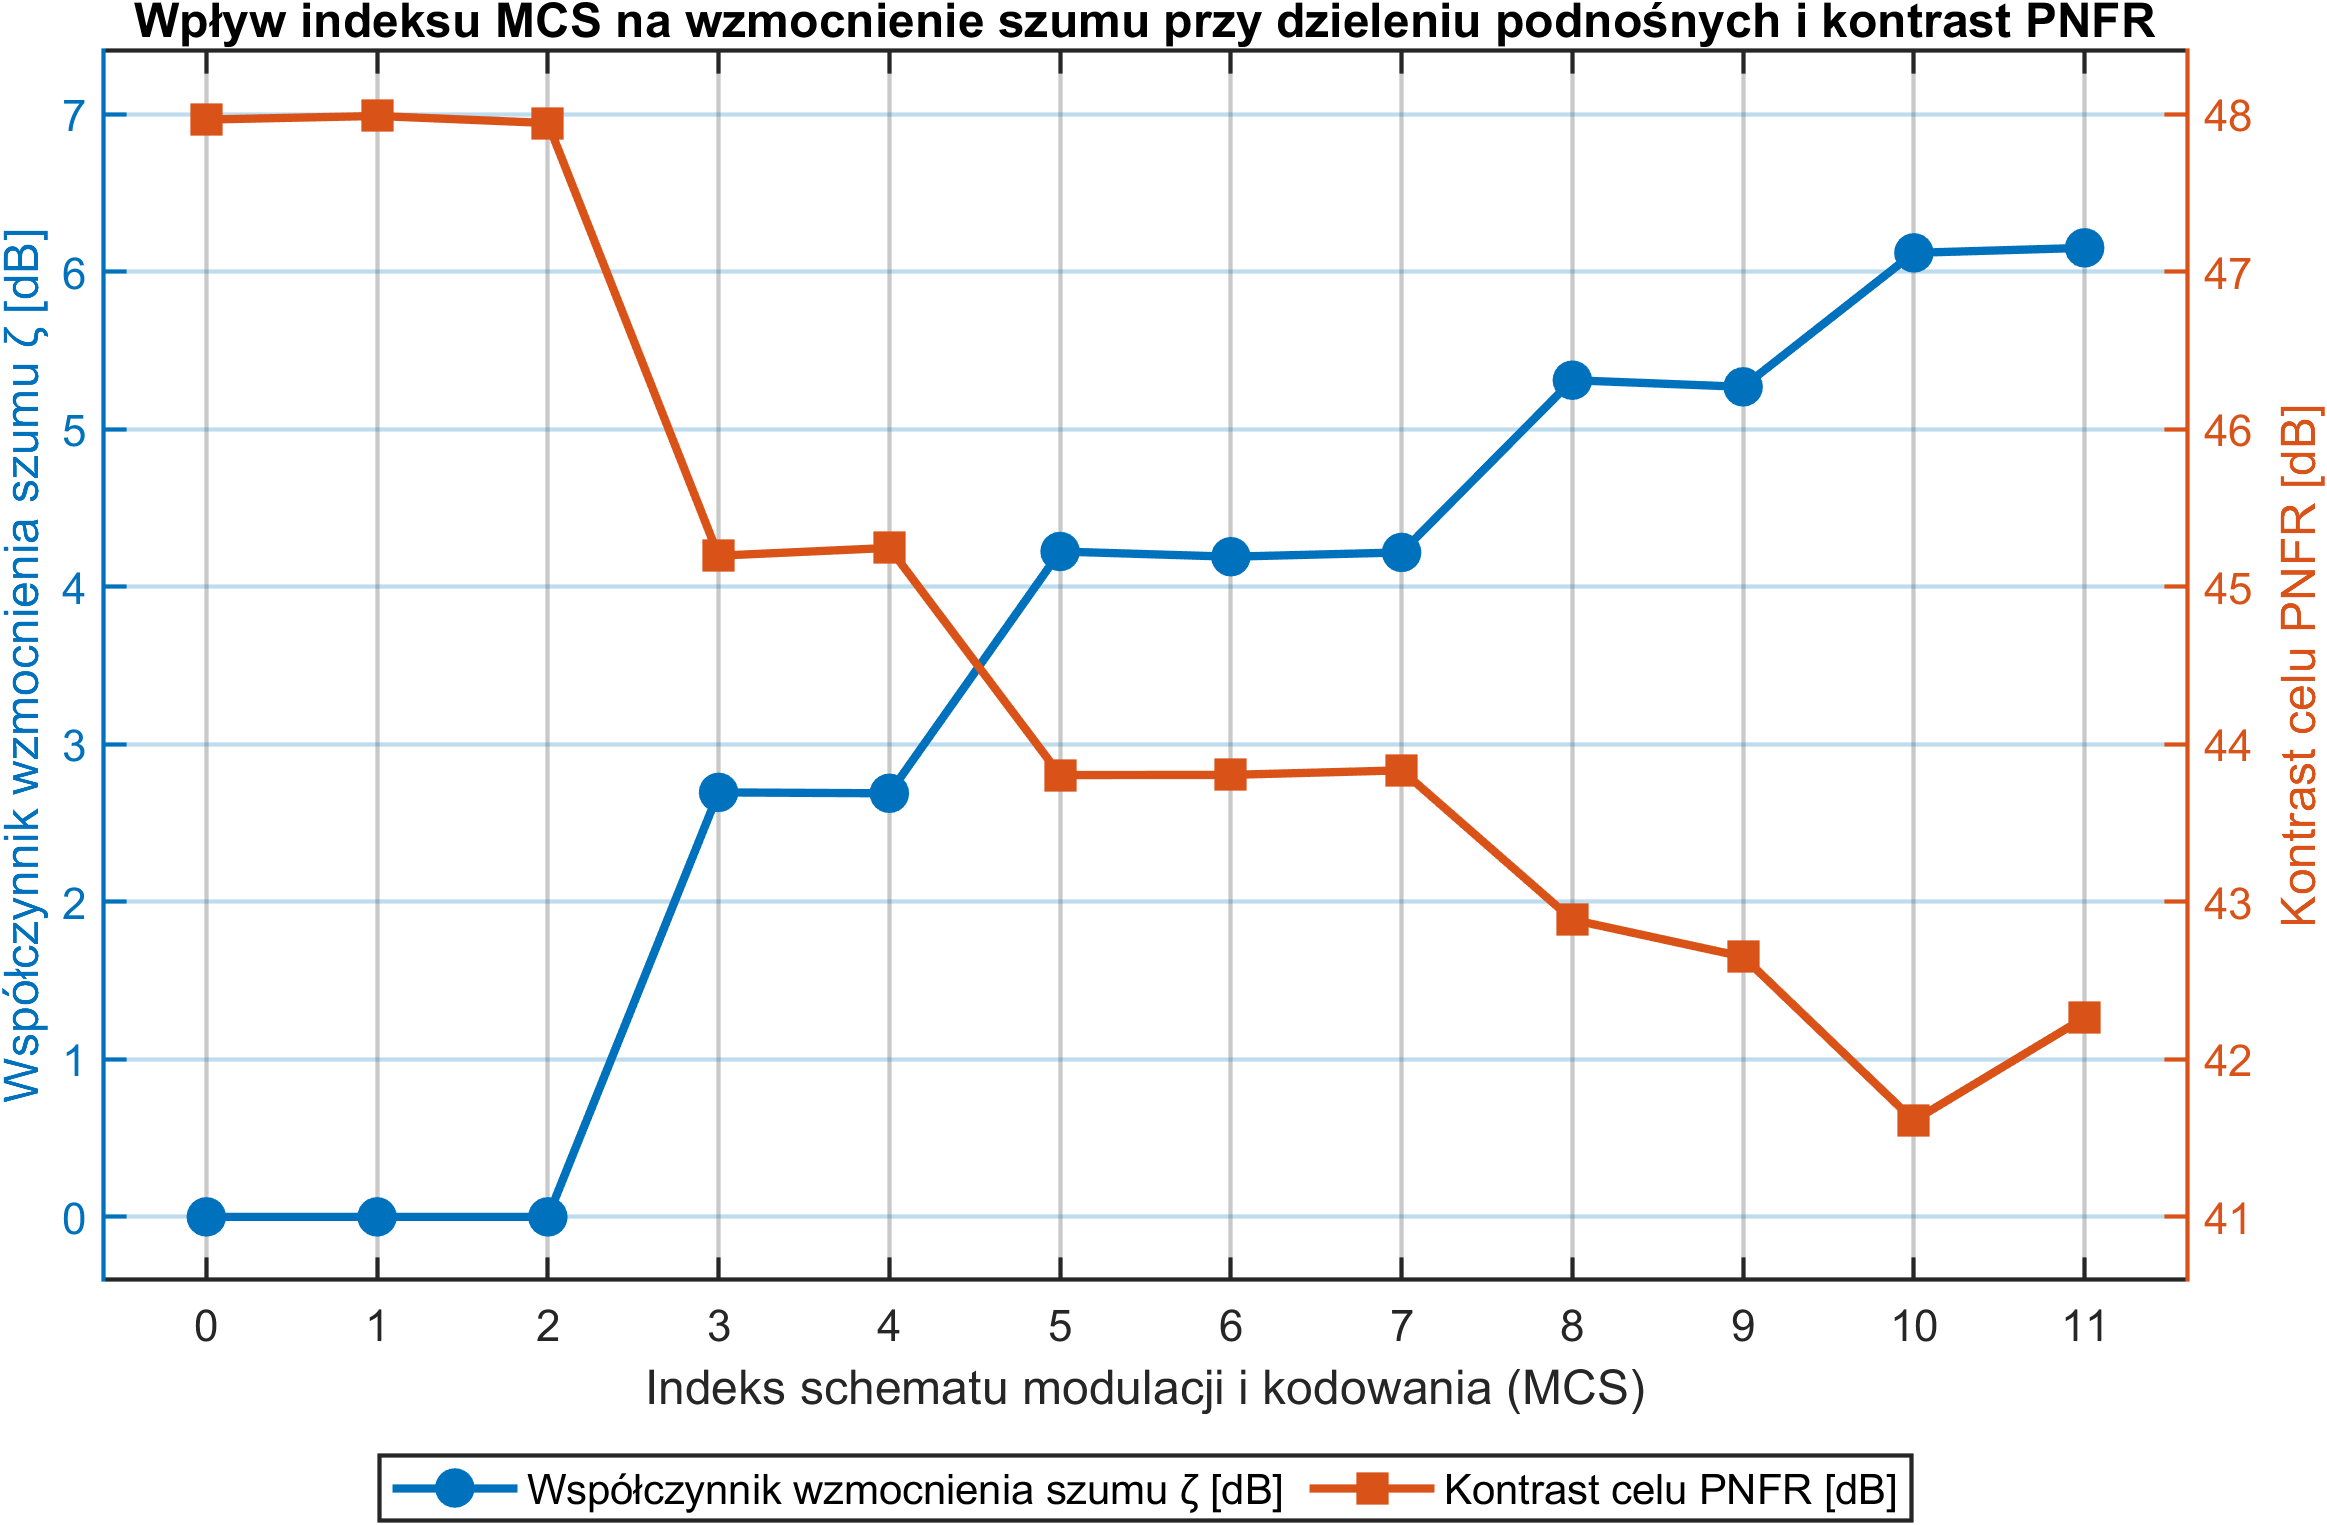
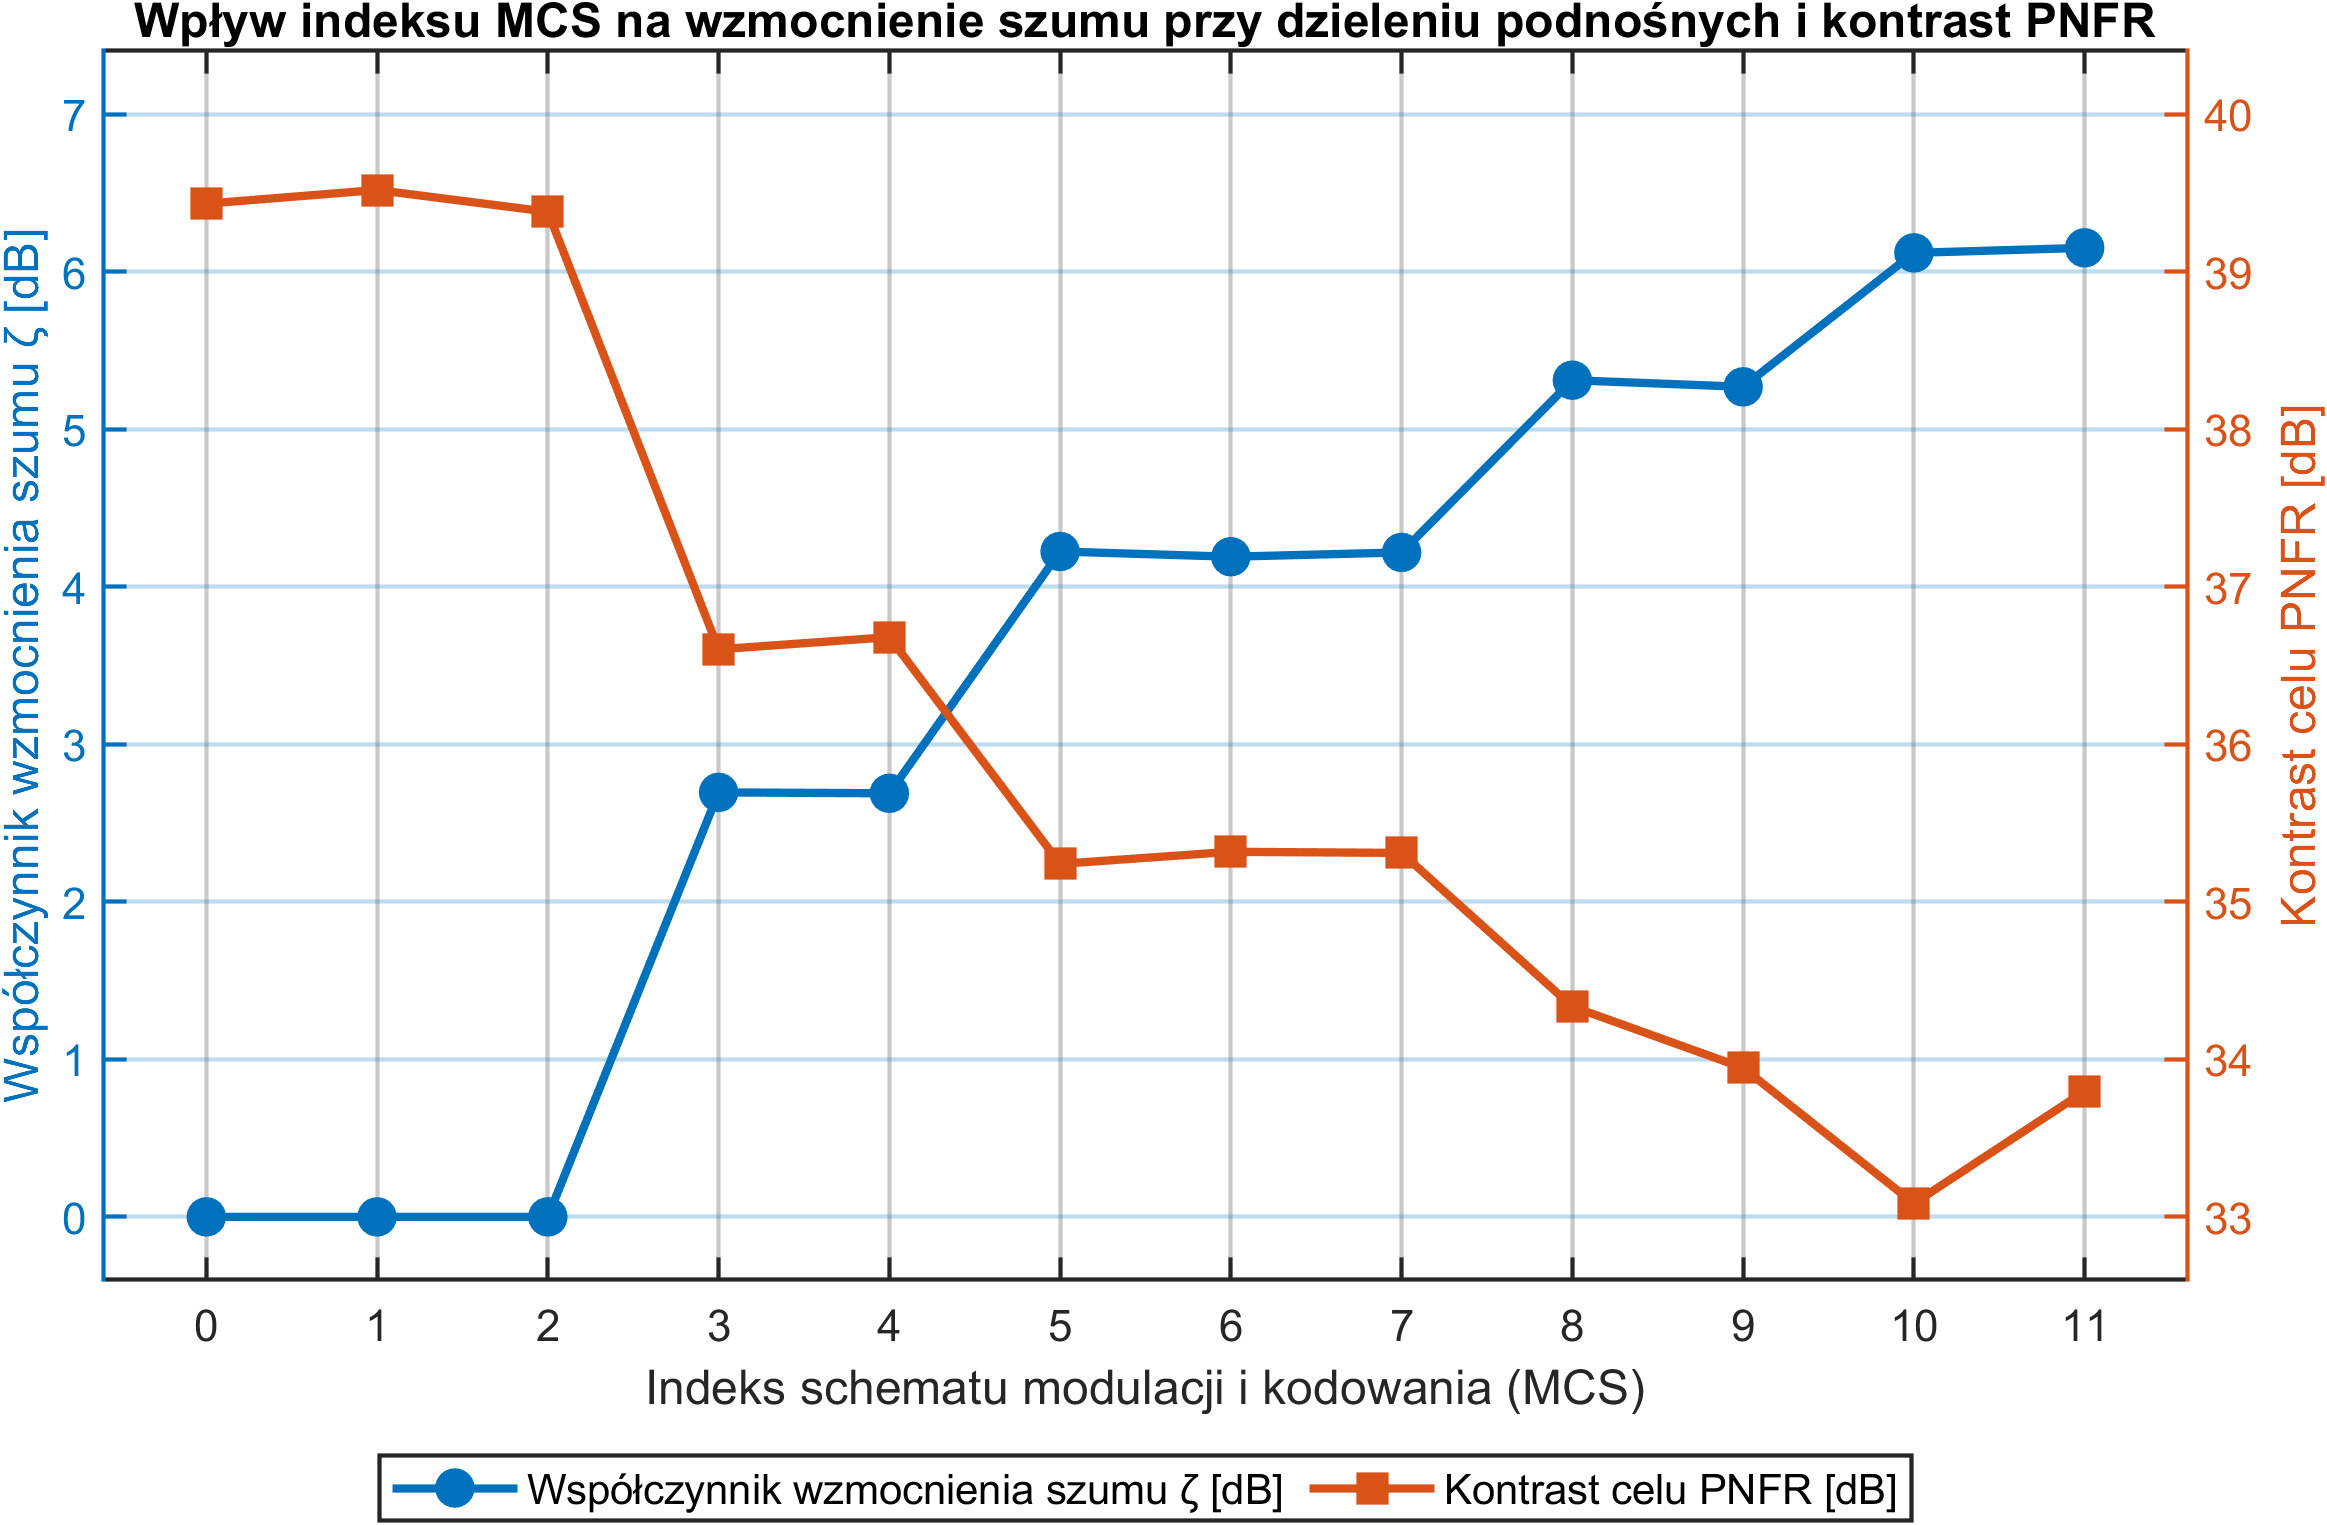
gain usuniety

diff --git a/scripts/figures/ch4_sim/gen_fig_4_3_noise_enhancement.m b/scripts/figures/ch4_sim/gen_fig_4_3_noise_enhancement.m
@@ -28,7 +28,7 @@ function fig = gen_fig_4_3_noise_enhancement(show_figure, save_png)
     channel_model = 'Model-C';
     snr_dB        = 25.0;
 
-    targets = struct('type', 'car', 'range_m', 22.5, 'velocity_mps', 18.0, 'gain', 0.05);
+    targets = struct('type', 'car', 'range_m', 22.5, 'velocity_mps', 18.0);
 
     mcs_list  = 0:11;
     n_mcs     = numel(mcs_list);
@@ -87,8 +87,9 @@ function fig = gen_fig_4_3_noise_enhancement(show_figure, save_png)
         'LineWidth', 2.0, 'MarkerSize', 7.5, ...
         'DisplayName', 'Kontrast celu PNFR [dB]');
     ylabel('Kontrast celu PNFR [dB]', 'FontSize', 11, 'Interpreter', 'none');
-    ylim([40.6, 48.4]);
-    yticks(41:1:48);
+    y_top = ceil(max(pnfr_dB));
+    ylim([y_top - 7.4, y_top + 0.4]);
+    yticks((y_top - 7):1:y_top);
     ax.YColor = color_right;
 
     xlim([-0.6, 11.6]);
